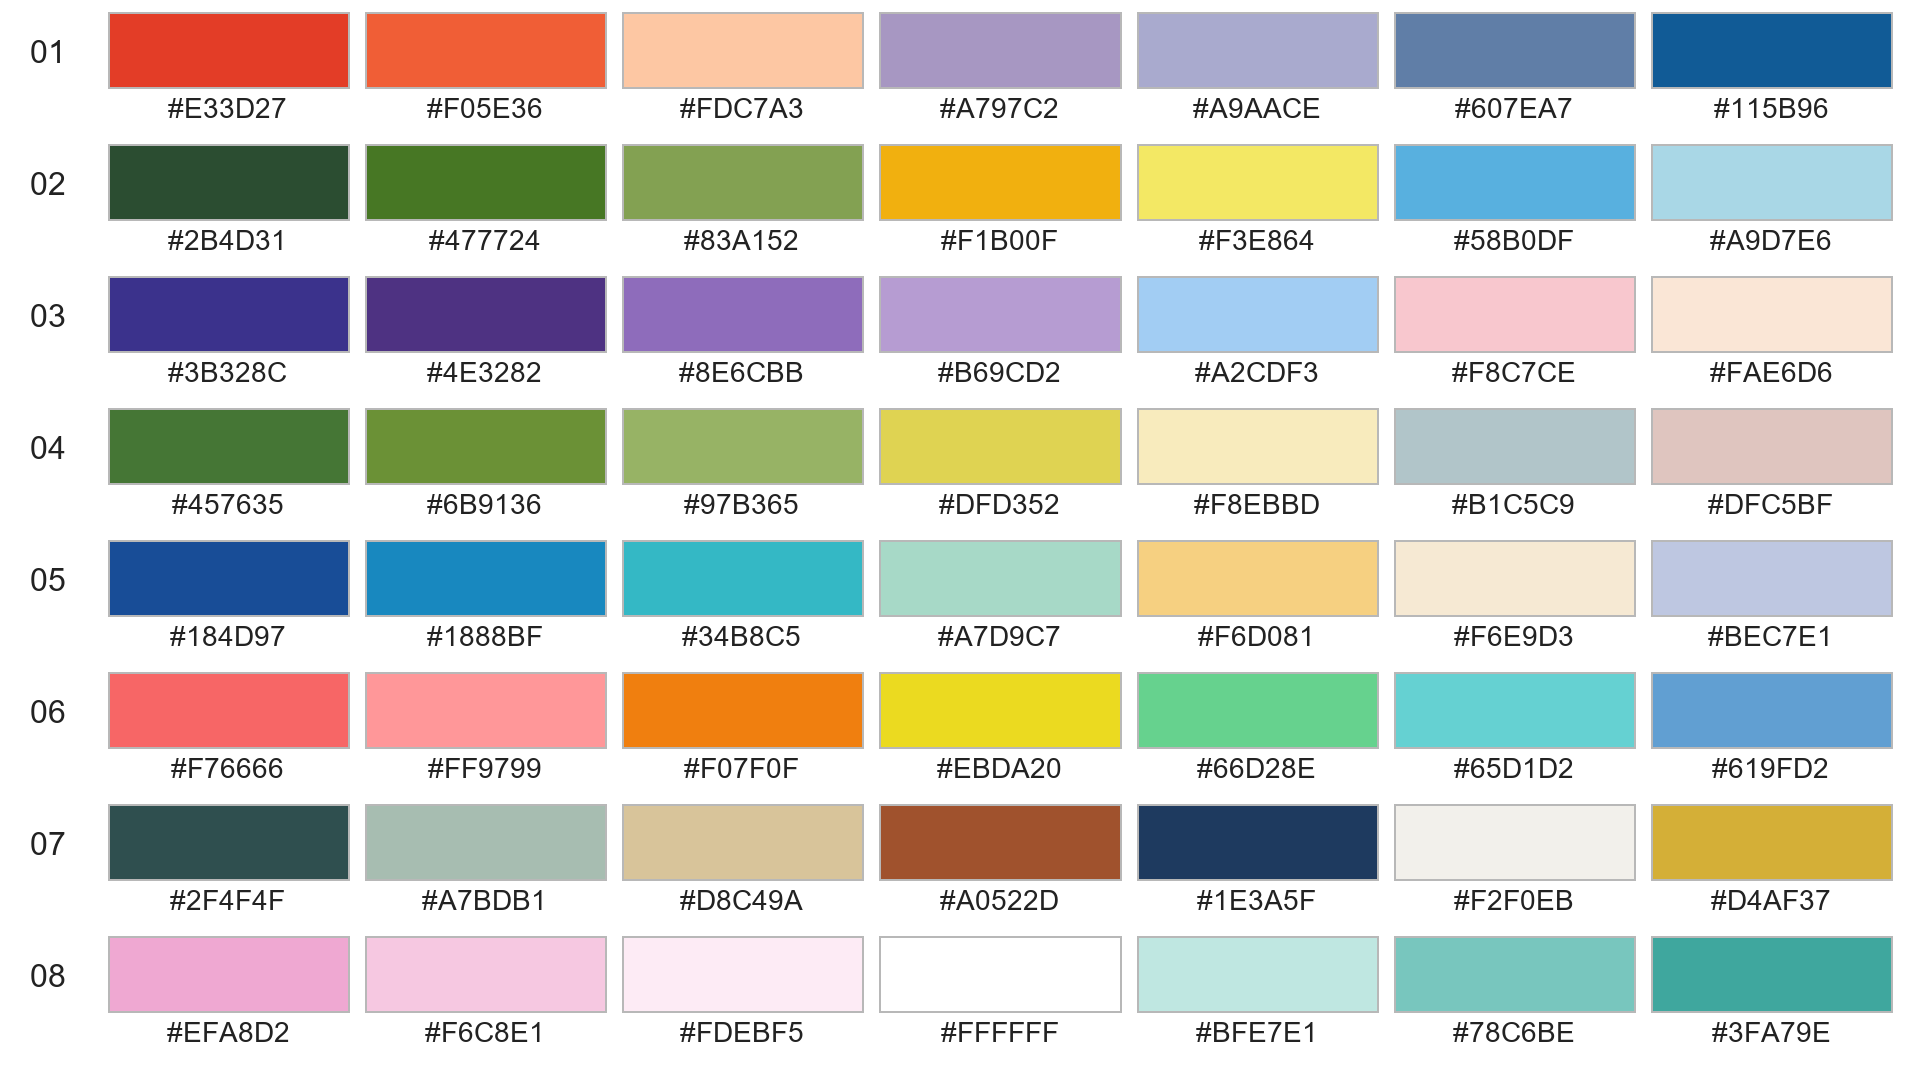
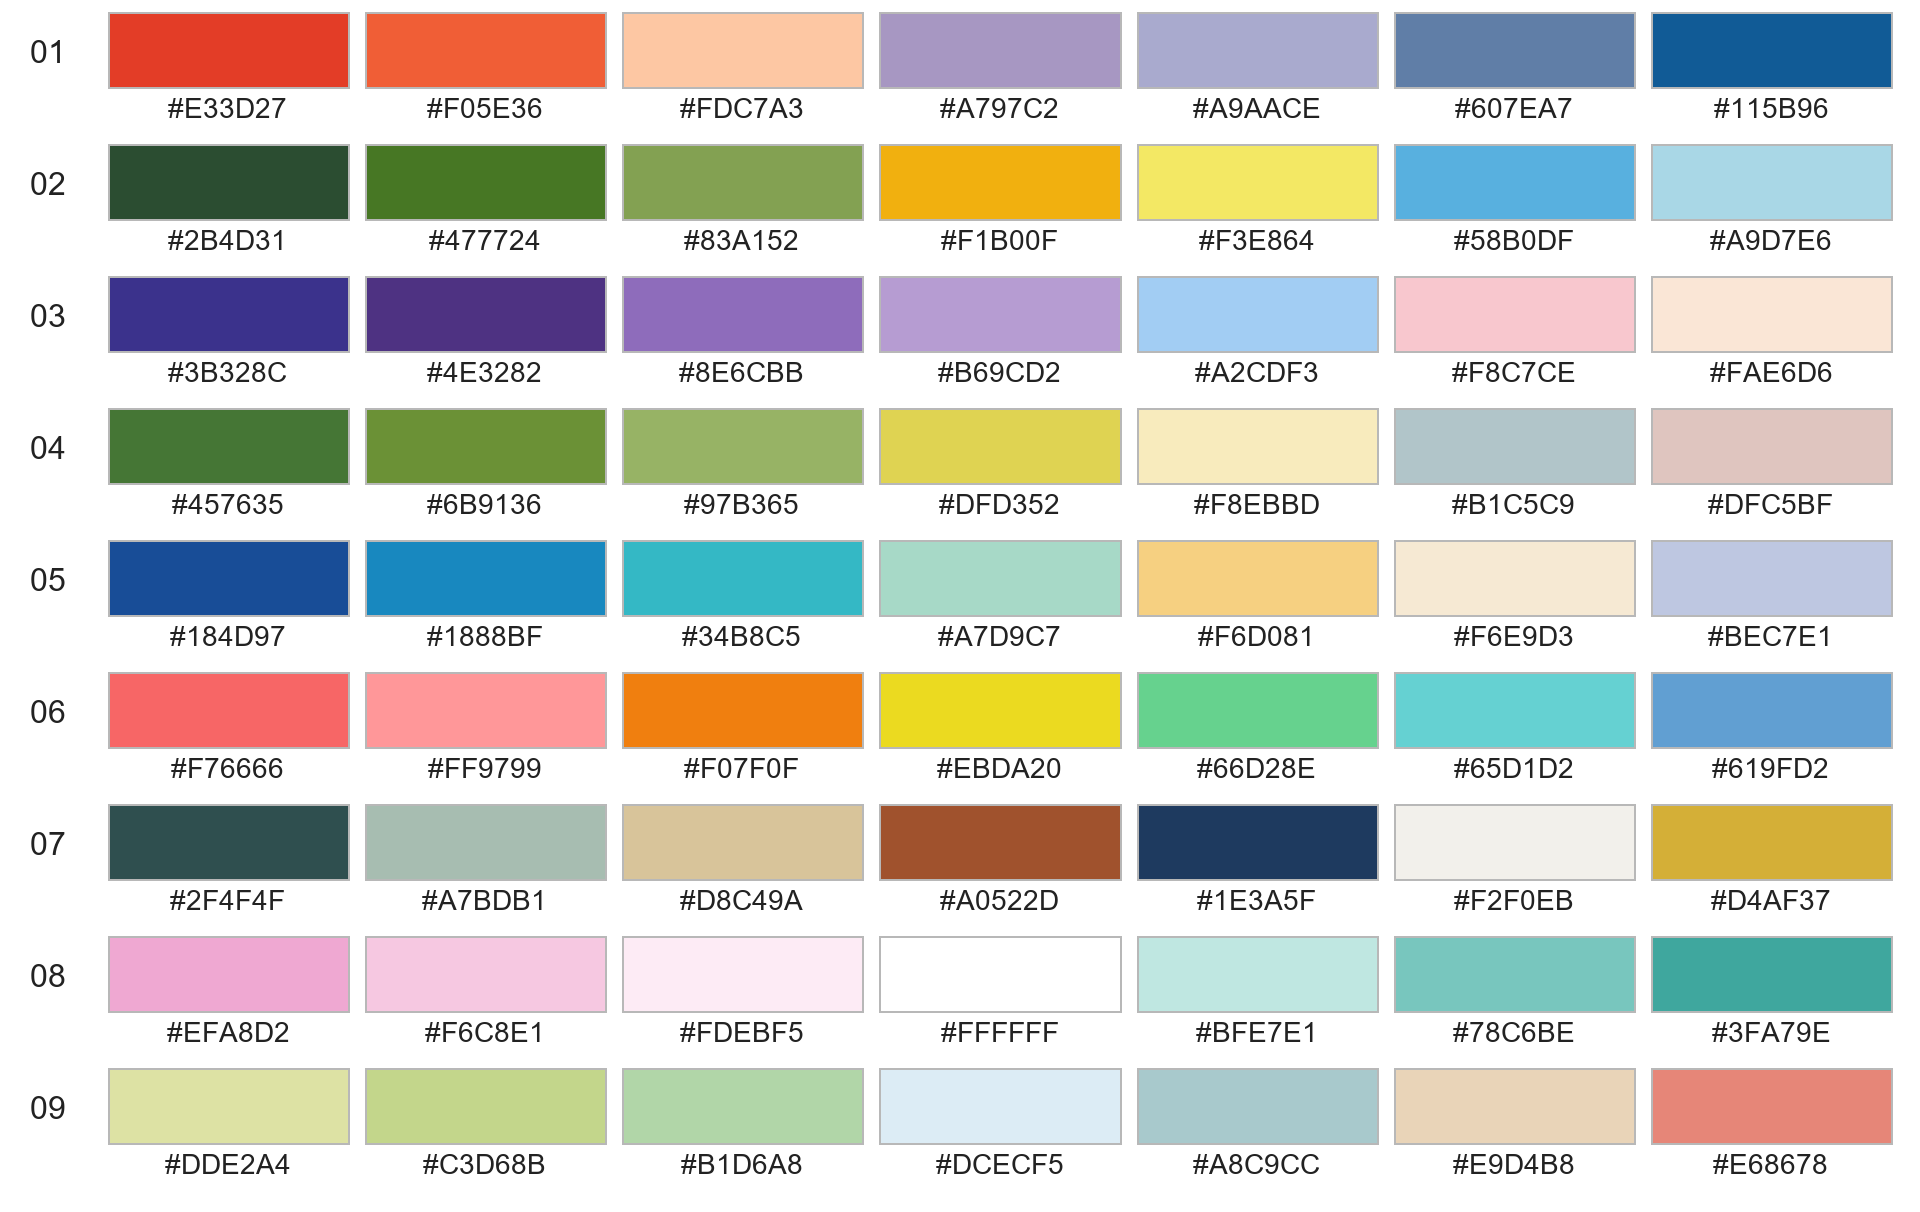
Add 3 palettes and update color previews

diff --git a/figures/palettes.md b/figures/palettes.md
@@ -43,9 +43,9 @@
 | 07 | #FCE8E6 #FFC6BC #F8B9B8 #FFADA2 #D6DFEF #A5CDE2 #5FA3CB #668FCA |
 | 08 | #655675 #9382A3 #C0B3CD #E4DCEB #A96F80 #CF9CAA #E8C9CE #A7B6A1 |
 
-## 7 色 · 8 组
+## 7 色 · 9 组
 
-![7 色 · 8 组配色实例](previews/7-colors.png)
+![7 色 · 9 组配色实例](previews/7-colors.png)
 
 | ID | HEX |
 |---|---|
@@ -57,6 +57,7 @@
 | 06 | #F76666 #FF9799 #F07F0F #EBDA20 #66D28E #65D1D2 #619FD2 |
 | 07 | #2F4F4F #A7BDB1 #D8C49A #A0522D #1E3A5F #F2F0EB #D4AF37 |
 | 08 | #EFA8D2 #F6C8E1 #FDEBF5 #FFFFFF #BFE7E1 #78C6BE #3FA79E |
+| 09 | #DDE2A4 #C3D68B #B1D6A8 #DCECF5 #A8C9CC #E9D4B8 #E68678 |
 
 ## 6 色 · 10 组
 
@@ -75,9 +76,9 @@
 | 09 | #845EC2 #D65DB1 #FF6F91 #FF9671 #FFC75F #F9F871 |
 | 10 | #FF696A #A6D0DE #E7F6F3 #FFD3B0 #C7D3E8 #FDE3E3 |
 
-## 5 色 · 18 组
+## 5 色 · 20 组
 
-![5 色 · 18 组配色实例](previews/5-colors.png)
+![5 色 · 20 组配色实例](previews/5-colors.png)
 
 | ID | HEX |
 |---|---|
@@ -99,6 +100,8 @@
 | 16 | #E5938D #EAB8AF #8AA4BF #A5C0CB #B69B98 |
 | 17 | #36BEC9 #2B7894 #87D1DD #E7A2C2 #EB6659 |
 | 18 | #F94144 #F9C74F #90BE6D #277DA1 #F1F8EB |
+| 19 | #CAE5F8 #9DCBED #FAEFF5 #F2C5DA #E286AF |
+| 20 | #FFFEEC #FBE8DD #F3C2BA #F29494 #D3EDFB |
 
 ## 4 色 · 2 组
 

diff --git a/figures/README.md b/figures/README.md
@@ -5,6 +5,6 @@
 | 文档 | 内容 |
 | --- | --- |
 | [工具](tools.md) | polish-sci-figures、scientific-illustrator 的仓库入口与用途 |
-| [配色](palettes.md) | 全部 88 组配色实例与 HEX，按颜色数量分组，保留 ID 和原始顺序 |
+| [配色](palettes.md) | 全部 91 组配色实例与 HEX，按颜色数量分组，保留 ID 和原始顺序 |
 
 [返回仓库 README](../README.md)
